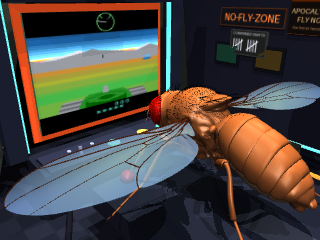
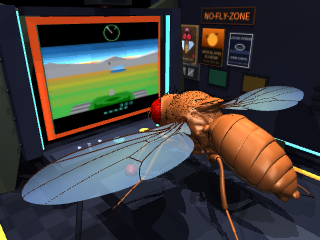
feat(cockpit): lay out the wall art in view and pin a sweetheart portrait
The beauty camera saw only part of the starboard wall; the posters are now
in three bands inside its view with a 50-degree lens, nothing overlapping.
New pixel-art decal of a female fly, painted in code like the others.
Hero image, dashboard still and demo GIF refreshed.

diff --git a/src/noflyzone/cockpit.py b/src/noflyzone/cockpit.py
@@ -77,6 +77,9 @@ _XML = f"""
     <texture name="poster2" type="2d" builtin="flat" rgb1="0.05 0.07 0.12"
              width="128" height="160"/>
     <material name="poster2_mat" texture="poster2" emission="0.45" specular="0"/>
+    <texture name="portrait" type="2d" builtin="flat" rgb1="0.18 0.12 0.08"
+             width="128" height="176"/>
+    <material name="portrait_mat" texture="portrait" emission="0.5" specular="0"/>
     <texture name="crate" type="2d" builtin="flat" rgb1="0.2 0.22 0.15"
              width="128" height="64"/>
     <material name="crate_mat" texture="crate" emission="0.35" specular="0"/>
@@ -150,15 +153,15 @@ _XML = f"""
           material="hull"/>
     <geom name="wall_r_neon" type="box" pos="0.367 0.02 0.30"
           size="0.003 0.34 0.005" material="neon_orange"/>
-    <geom name="aux_frame1" type="box" pos="0.368 0.18 0.10" size="0.004 0.042 0.032"
+    <geom name="aux_frame1" type="box" pos="0.368 0.18 0.045" size="0.004 0.042 0.032"
           material="rubber"/>
-    <geom name="aux_screen1" type="box" pos="0.366 0.18 0.10" size="0.004 0.034 0.024"
+    <geom name="aux_screen1" type="box" pos="0.366 0.18 0.045" size="0.004 0.034 0.024"
           rgba="0.12 0.35 0.22 1"/>
-    <geom name="aux_frame2" type="box" pos="0.368 0.05 0.10" size="0.004 0.042 0.032"
+    <geom name="aux_frame2" type="box" pos="0.368 0.05 0.045" size="0.004 0.042 0.032"
           material="rubber"/>
-    <geom name="aux_screen2" type="box" pos="0.366 0.05 0.10" size="0.004 0.034 0.024"
+    <geom name="aux_screen2" type="box" pos="0.366 0.05 0.045" size="0.004 0.034 0.024"
           rgba="0.40 0.30 0.10 1"/>
-    <geom name="nameplate" type="box" pos="0.366 0.115 0.20" size="0.004 0.095 0.024"
+    <geom name="nameplate" type="box" pos="0.366 0.17 0.235" size="0.004 0.095 0.024"
           material="plate_mat"/>
     <geom name="vent1" type="box" pos="0.366 -0.16 0.02" size="0.004 0.05 0.004"
           material="rubber"/>
@@ -236,13 +239,17 @@ _XML = f"""
     <geom name="dogtag2" type="box" pos="-0.162 0.148 -0.093" size="0.007 0.002 0.010"
           euler="0 0 12" material="metal"/>
 
-    <!-- wall art: kill tally + war posters -->
-    <geom name="tally_plate" type="box" pos="0.366 0.115 0.135" size="0.004 0.055 0.033"
-          material="tally_mat"/>
-    <geom name="poster_apoc" type="box" pos="0.366 -0.04 0.24" size="0.004 0.052 0.072"
+    <!-- wall art, laid out in the beauty camera's view (y 0..0.38, z 0..0.29):
+         top band: nameplate; middle band: sweetheart portrait, two war
+         posters; bottom band: kill tally and the two aux screens -->
+    <geom name="poster_sweetheart" type="box" pos="0.366 0.322 0.14" size="0.004 0.048 0.066"
+          material="portrait_mat"/>
+    <geom name="poster_apoc" type="box" pos="0.366 0.212 0.14" size="0.004 0.042 0.058"
           material="poster1_mat"/>
-    <geom name="poster_wings" type="box" pos="0.366 -0.215 0.21" size="0.004 0.047 0.060"
+    <geom name="poster_wings" type="box" pos="0.366 0.11 0.14" size="0.004 0.040 0.050"
           material="poster2_mat"/>
+    <geom name="tally_plate" type="box" pos="0.366 0.31 0.05" size="0.004 0.050 0.030"
+          material="tally_mat"/>
 
     <!-- controls, placed under the fly's front claws -->
     <body name="lever_left" pos="-{CLAW_X} {CLAW_Y} {CLAW_Z - 0.09}">
@@ -263,7 +270,7 @@ _XML = f"""
     </body>
 
     <body name="focus" pos="0 0.06 0.03"/>
-    <camera name="beauty" pos="-0.34 -0.32 0.24" mode="targetbody" target="focus"/>
+    <camera name="beauty" pos="-0.34 -0.32 0.24" mode="targetbody" target="focus" fovy="50"/>
     <camera name="shoulder" pos="0.16 -0.34 0.20" mode="targetbody" target="focus"/>
     <!-- retina cameras ride just ahead of the antennae on the fly's eye
          line (contact-lens cams): behind this point the fly's own head
@@ -362,6 +369,76 @@ def _paint_poster_wings(img, draw, w, h):
     _center_text(draw, w, 134, "MINISTRY OF WING SAFETY", _font(9), (150, 150, 140))
 
 
+# the one she is fighting for: a pixel portrait pinned by the posters
+_SWEETHEART = [
+    "........................",
+    "..........pPp...........",
+    ".........ppPpp..........",
+    "....k....pp.pp....k.....",
+    ".....k....kkk....k......",
+    "......k...k.k...k.......",
+    ".......kkkkkkkkk........",
+    "..k...krrrkkkrrrk...k...",
+    "...k.krrRrrkrrRrrk.k....",
+    "....krrrrrrkrrrrrrk.....",
+    "....krrrrrrkrrrrrrk.....",
+    "....krrrrrrkrrrrrrk.....",
+    ".....krrrrkkkrrrrk......",
+    "......kkkkkbkkkkk.......",
+    ".........kbbbk..........",
+    "..wwwwwwkbBBBbkwwwwww...",
+    ".wwWwwwwkbbbbbkwwwwWww..",
+    "wwwWwwwwkbBBBbkwwwwWwww.",
+    "wwwwWwwwkbbbbbkwwwWwwww.",
+    ".wwwwWwwkkbbbkkwwWwwww..",
+    "..wwwwWwkyyyyykwWwwww...",
+    "...wwwwwkbbbbbkwwwww....",
+    "....wwwwkyyyyykwwww.....",
+    ".....wwwkbbbbbkwww......",
+    "......wwkyyyyykww.......",
+    ".......wkbbbbbkw........",
+    "........kyyyyyk.........",
+    ".........kbbbk..........",
+    ".........kyyyk..........",
+    "..........kbk...........",
+    "...........k............",
+    "........................",
+]
+_SWEETHEART_PALETTE = {
+    "k": (22, 14, 12), "r": (205, 40, 55), "R": (255, 160, 170),
+    "b": (125, 80, 45), "B": (82, 50, 28), "y": (218, 172, 70),
+    "w": (205, 228, 242), "W": (150, 190, 222), "p": (238, 96, 160),
+    "P": (255, 176, 205),
+}
+_HEART = [".hh.hh.", "hhhhhhh", "hhhhhhh", ".hhhhh.", "..hhh..", "...h..."]
+
+
+def _blit_pixels(img, rows, palette, x0, y0, scale):
+    px = img.load()
+    for j, row in enumerate(rows):
+        for i, ch in enumerate(row):
+            colour = palette.get(ch)
+            if colour is None:
+                continue
+            for dy in range(scale):
+                for dx in range(scale):
+                    px[x0 + i * scale + dx, y0 + j * scale + dy] = colour
+
+
+def _paint_portrait(img, draw, w, h):
+    # sepia photo with a brass frame, pinned at the corners
+    for i in range(h):  # faded gradient
+        t = i / h
+        draw.line([0, i, w, i], fill=(int(70 - 18 * t), int(48 - 12 * t), int(30 - 8 * t)))
+    draw.rectangle([3, 3, w - 4, h - 4], outline=(190, 150, 70), width=3)
+    _blit_pixels(img, _SWEETHEART, _SWEETHEART_PALETTE, 16, 12, 4)
+    _blit_pixels(img, _HEART, {"h": (225, 50, 70)}, 12, 132, 2)
+    _blit_pixels(img, _HEART, {"h": (225, 50, 70)}, w - 12 - 14, 132, 2)
+    _center_text(draw, w, 148, "COME HOME SAFE", _font(11), (245, 220, 170))
+    for cx, cy in ((7, 7), (w - 8, 7), (7, h - 8), (w - 8, h - 8)):  # pins
+        draw.ellipse([cx - 2, cy - 2, cx + 2, cy + 2], fill=(220, 200, 120))
+
+
 def _paint_crate(img, draw, w, h):
     stencil = (25, 22, 15)
     _center_text(draw, w, 8, "SUGAR RATIONS", _font(15), stencil)
@@ -376,6 +453,7 @@ _DECALS = {
     "tally": (128, 96, (26, 26, 23), _paint_tally, True),
     "poster1": (128, 176, (26, 13, 8), _paint_poster_apoc, True),
     "poster2": (128, 160, (13, 18, 31), _paint_poster_wings, True),
+    "portrait": (128, 176, (46, 31, 20), _paint_portrait, True),
     "crate": (128, 64, (51, 56, 38), _paint_crate, False),  # faces -y
 }
 

diff --git a/CHANGELOG.md b/CHANGELOG.md
@@ -1,5 +1,18 @@
 # Changelog
 
+## [2026-09-14] - Wall art laid out in view, and a sweetheart portrait
+
+- The starboard wall art was placed by guess and the beauty camera saw only
+  part of it: one war poster was half off the right edge, the other entirely
+  off-screen, and the nameplate and tally sat on top of each other. The wall
+  is now laid out in three bands inside the camera's view (nameplate; the
+  three posters; tally and aux screens), the beauty lens is 50 degrees
+  instead of 45, and nothing overlaps or clips.
+- New decal: a pixel-art portrait of a female fly, pinned as a sepia photo
+  with a brass frame, two hearts and "COME HOME SAFE", painted in code like
+  the other decals (`_SWEETHEART` pixel map in `cockpit.py`). The one she is
+  fighting for. Hero image and demo media refreshed.
+
 ## [2026-09-14] - Persistent olfactory state found and corrected; honest benchmark
 
 - Long runs settled into fixed pool rates regardless of the screen. Cutting

diff --git a/README.md b/README.md
@@ -5,9 +5,10 @@ licensed to drive.
 
 ![The connectome pilot turning toward a tank, firing, and backing off from the loom](docs/media/demo.gif)
 
-*Left: the fly seated at the CRT. Middle: Atari Battlezone. Right: 138,639
-neurons, spikes glowing. Bottom: the descending neurons it is read out
-from. Everything on the footer is a named, measured mapping.*
+*Left: the fly seated at the CRT, with the one she is fighting for pinned to
+the wall. Middle: Atari Battlezone. Right: 138,639 neurons, spikes glowing.
+Bottom: the descending neurons it is read out from. Everything on the footer
+is a named, measured mapping.*
 
 The complete Drosophila brain wiring diagram (FlyWire v783 today, 138,639
 neurons; MaleCNS planned) runs as a spiking simulation and is seated as the **pilot** inside a
